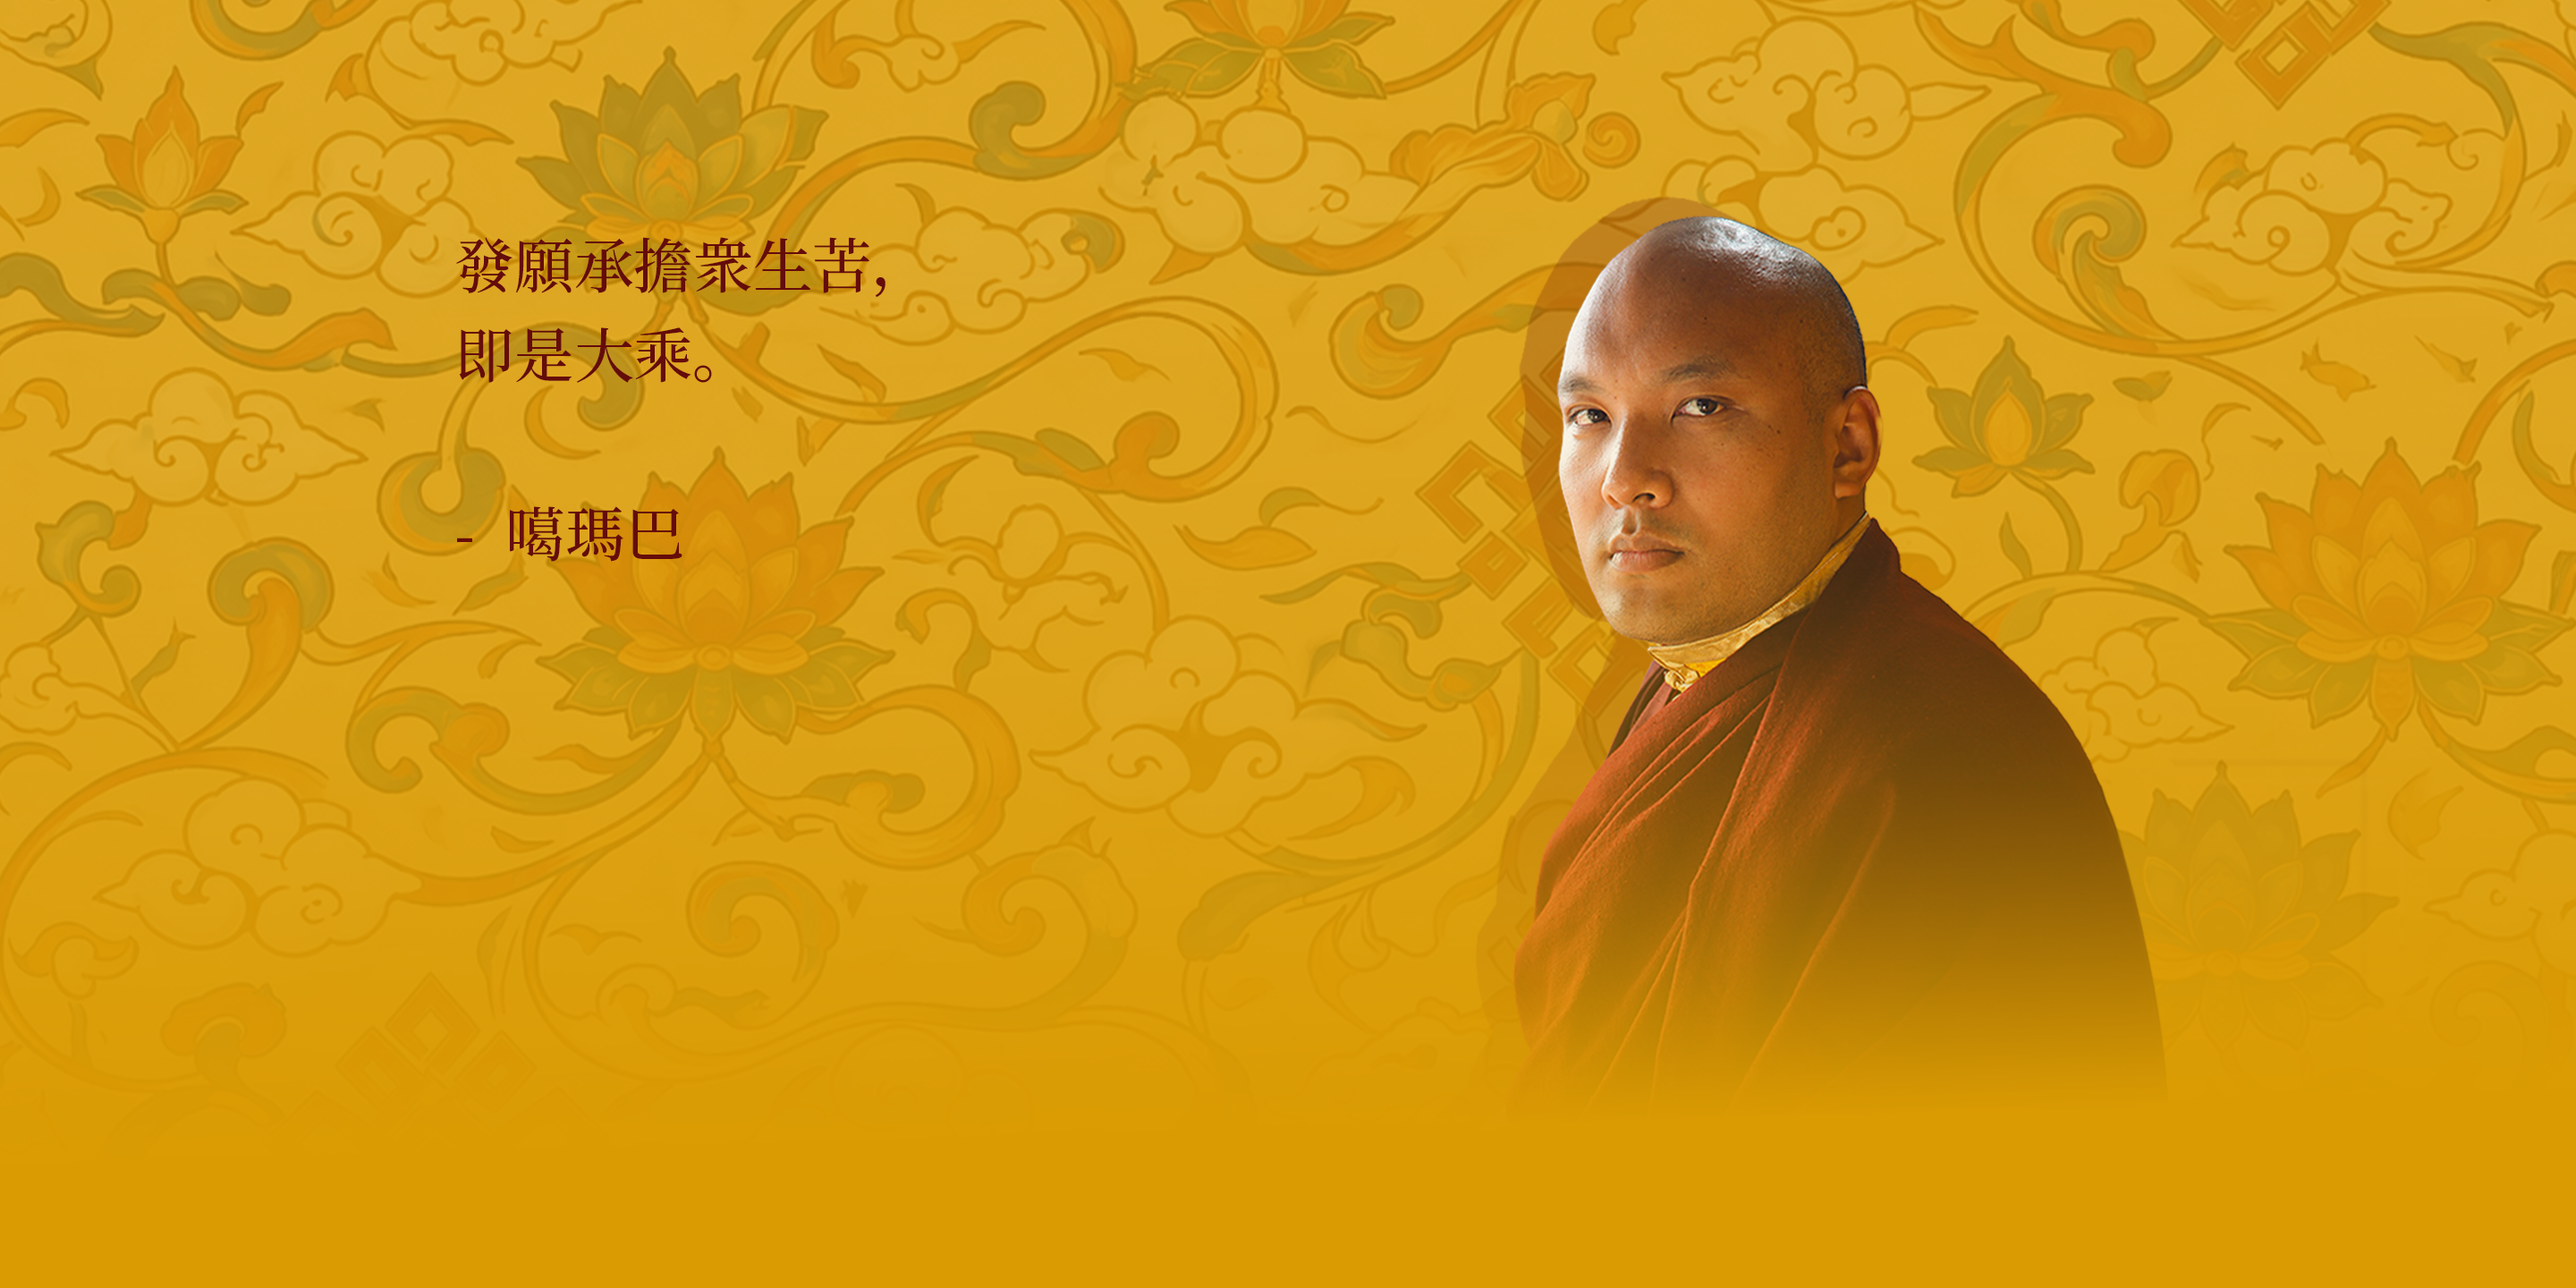
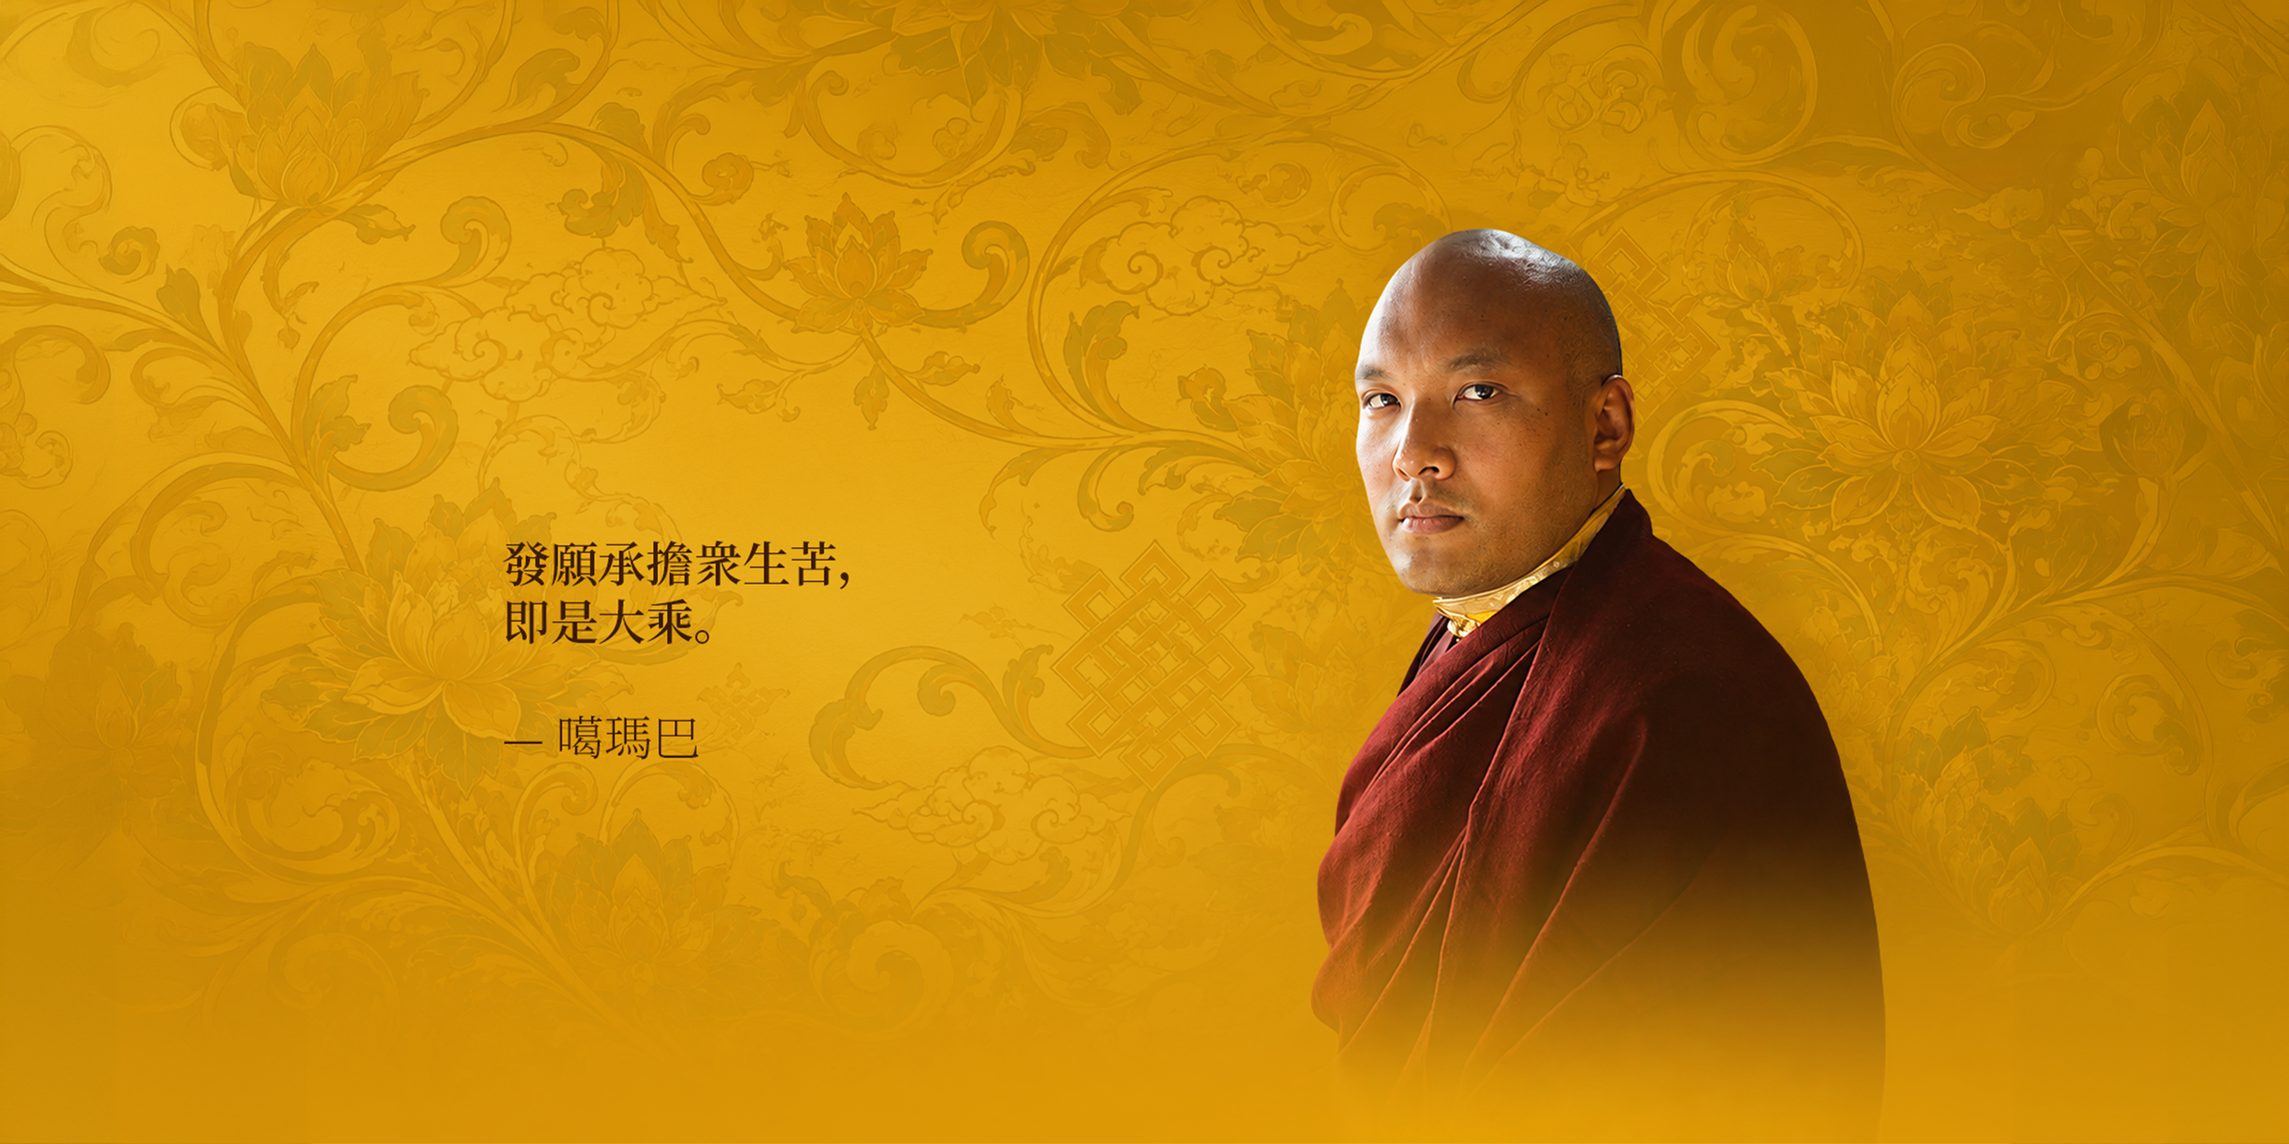
Expand homepage carousel

diff --git a/app/visual-media/video-channel/page.module.css b/app/visual-media/video-channel/page.module.css
@@ -75,14 +75,14 @@
 }
 
 .tab {
-  background: rgba(255, 255, 255, 0.42);
+  background: var(--category-pill-background);
   backdrop-filter: blur(12px);
-  border: 1px solid rgba(149, 69, 69, 0.22);
+  border: 1px solid var(--category-pill-border);
   border-radius: 999px;
   box-shadow:
     0 2px 12px rgba(0, 0, 0, 0.04),
     0 1px 2px rgba(0, 0, 0, 0.015);
-  color: rgba(112, 72, 72, 0.92);
+  color: var(--category-pill-color);
   cursor: pointer;
   font: inherit;
   font-weight: 200;
@@ -95,17 +95,17 @@
 }
 
 .tab:hover {
-  background: rgba(255, 255, 255, 0.25);
-  border-color: rgba(149, 69, 69, 0.7);
-  color: rgba(112, 72, 72, 1);
+  background: var(--category-pill-background-hover);
+  border-color: var(--category-pill-border-hover);
+  color: var(--category-pill-color-hover);
   filter: brightness(1.1);
 }
 
 .tabActive,
 .tabActive:hover {
-  background: #954545;
-  border-color: #954545;
-  box-shadow: 0 2px 10px rgba(149, 69, 69, 0.3);
+  background: var(--category-pill-active-background);
+  border-color: var(--category-pill-active-background);
+  box-shadow: var(--category-pill-active-shadow);
   color: #ffffff;
   filter: none;
 }
@@ -330,9 +330,9 @@
 
 .loadMoreButton {
   align-items: center;
-  background: rgba(255, 255, 255, 0.1);
+  background: var(--category-pill-background);
   backdrop-filter: blur(12px);
-  border: 1px solid rgba(149, 69, 69, 0.4);
+  border: 1px solid var(--category-pill-border);
   border-radius: 999px;
   box-shadow:
     0 2px 12px rgba(0, 0, 0, 0.04),
@@ -363,9 +363,9 @@
 
 .loadMoreButton:hover,
 .loadMoreButton:focus-visible {
-  background: rgba(255, 255, 255, 0.25);
-  border-color: rgba(149, 69, 69, 0.7);
-  color: rgba(149, 69, 69, 0.7);
+  background: var(--category-pill-background-hover);
+  border-color: var(--category-pill-border-hover);
+  color: var(--category-pill-color-hover);
   filter: brightness(1.1);
   transform: translateY(-1px);
 }

diff --git a/app/activities/latest/page.module.css b/app/activities/latest/page.module.css
@@ -49,9 +49,9 @@
 .filterButton[aria-pressed="true"],
 .filterButton[aria-pressed="true"]:hover,
 .filterButton[aria-pressed="true"]:focus-visible {
-  background: #954545;
-  border-color: #954545;
-  box-shadow: 0 2px 10px rgba(149, 69, 69, 0.3);
+  background: var(--category-pill-active-background);
+  border-color: var(--category-pill-active-background);
+  box-shadow: var(--category-pill-active-shadow);
   color: #ffffff;
   filter: none;
 }
@@ -86,14 +86,14 @@
 
 .archiveNavLink {
   align-items: center;
-  background: rgba(255, 255, 255, 0.42);
+  background: var(--category-pill-background);
   backdrop-filter: blur(12px);
-  border: 1px solid rgba(149, 69, 69, 0.22);
+  border: 1px solid var(--category-pill-border);
   border-radius: 999px;
   box-shadow:
     0 2px 12px rgba(0, 0, 0, 0.04),
     0 1px 2px rgba(0, 0, 0, 0.015);
-  color: rgba(112, 72, 72, 0.92);
+  color: var(--category-pill-color);
   display: inline-grid;
   font-size: 0.95rem;
   font-weight: 200;
@@ -111,9 +111,9 @@
 
 .archiveNavLink:hover,
 .archiveNavLink:focus-visible {
-  background: rgba(255, 255, 255, 0.25);
-  border-color: rgba(149, 69, 69, 0.7);
-  color: rgba(112, 72, 72, 1);
+  background: var(--category-pill-background-hover);
+  border-color: var(--category-pill-border-hover);
+  color: var(--category-pill-color-hover);
   filter: brightness(1.1);
   outline: none;
 }

diff --git a/app/support-volunteer/charity-shop/page.module.css b/app/support-volunteer/charity-shop/page.module.css
@@ -350,14 +350,14 @@
 }
 
 .switchLink {
-  background: rgba(255, 255, 255, 0.42);
+  background: var(--category-pill-background);
   backdrop-filter: blur(12px);
-  border: 1px solid rgba(149, 69, 69, 0.22);
+  border: 1px solid var(--category-pill-border);
   border-radius: 999px;
   box-shadow:
     0 2px 12px rgba(0, 0, 0, 0.04),
     0 1px 2px rgba(0, 0, 0, 0.015);
-  color: rgba(112, 72, 72, 0.92);
+  color: var(--category-pill-color);
   font-size: inherit;
   font-weight: 200;
   letter-spacing: 0.15rem;
@@ -372,9 +372,9 @@
 
 .switchLink:hover,
 .switchLink:focus-visible {
-  background: rgba(255, 255, 255, 0.25);
-  border-color: rgba(149, 69, 69, 0.7);
-  color: rgba(112, 72, 72, 1);
+  background: var(--category-pill-background-hover);
+  border-color: var(--category-pill-border-hover);
+  color: var(--category-pill-color-hover);
   filter: brightness(1.1);
   outline: 0;
 }
@@ -382,9 +382,9 @@
 .switchLink[aria-current="page"],
 .switchLink[aria-current="page"]:hover,
 .switchLink[aria-current="page"]:focus-visible {
-  background: #954545;
-  border-color: #954545;
-  box-shadow: 0 2px 10px rgba(149, 69, 69, 0.3);
+  background: var(--category-pill-active-background);
+  border-color: var(--category-pill-active-background);
+  box-shadow: var(--category-pill-active-shadow);
   color: #ffffff;
   filter: none;
 }

diff --git a/components/ProductTabs.module.css b/components/ProductTabs.module.css
@@ -13,14 +13,14 @@
 }
 
 .tab {
-  background: rgba(255, 255, 255, 0.1);
+  background: var(--category-pill-background);
   backdrop-filter: blur(12px);
-  border: 1px solid rgba(149, 69, 69, 0.4);
+  border: 1px solid var(--category-pill-border);
   border-radius: 999px;
   box-shadow:
     0 2px 12px rgba(0, 0, 0, 0.04),
     0 1px 2px rgba(0, 0, 0, 0.015);
-  color: rgba(149, 69, 69, 0.4);
+  color: var(--category-pill-color);
   cursor: pointer;
   font: inherit;
   font-weight: 300;
@@ -33,17 +33,17 @@
 }
 
 .tab:hover {
-  background: rgba(255, 255, 255, 0.25);
-  border-color: rgba(149, 69, 69, 0.7);
-  color: rgba(149, 69, 69, 0.7);
+  background: var(--category-pill-background-hover);
+  border-color: var(--category-pill-border-hover);
+  color: var(--category-pill-color-hover);
   filter: brightness(1.1);
 }
 
 .active,
 .active:hover {
-  background: #954545;
-  border-color: #954545;
-  box-shadow: 0 2px 10px rgba(149, 69, 69, 0.3);
+  background: var(--category-pill-active-background);
+  border-color: var(--category-pill-active-background);
+  box-shadow: var(--category-pill-active-shadow);
   color: #ffffff;
   filter: none;
   font-weight: 300;

diff --git a/components/ActivityTabbedGallery.module.css b/components/ActivityTabbedGallery.module.css
@@ -16,14 +16,14 @@
 }
 
 .tab {
-  background: rgba(255, 255, 255, 0.42);
+  background: var(--category-pill-background);
   backdrop-filter: blur(12px);
-  border: 1px solid rgba(149, 69, 69, 0.22);
+  border: 1px solid var(--category-pill-border);
   border-radius: 999px;
   box-shadow:
     0 2px 12px rgba(0, 0, 0, 0.04),
     0 1px 2px rgba(0, 0, 0, 0.015);
-  color: rgba(112, 72, 72, 0.92);
+  color: var(--category-pill-color);
   cursor: pointer;
   font: inherit;
   font-weight: 200;
@@ -36,17 +36,17 @@
 }
 
 .tab:hover {
-  background: rgba(255, 255, 255, 0.25);
-  border-color: rgba(149, 69, 69, 0.7);
-  color: rgba(112, 72, 72, 1);
+  background: var(--category-pill-background-hover);
+  border-color: var(--category-pill-border-hover);
+  color: var(--category-pill-color-hover);
   filter: brightness(1.1);
 }
 
 .tabActive,
 .tabActive:hover {
-  background: #954545;
-  border-color: #954545;
-  box-shadow: 0 2px 10px rgba(149, 69, 69, 0.3);
+  background: var(--category-pill-active-background);
+  border-color: var(--category-pill-active-background);
+  box-shadow: var(--category-pill-active-shadow);
   color: #ffffff;
   filter: none;
 }

diff --git a/app/about/teachers/TeacherTabs.module.css b/app/about/teachers/TeacherTabs.module.css
@@ -16,14 +16,14 @@
 }
 
 .tab {
-  background: rgba(255, 255, 255, 0.1);
+  background: var(--category-pill-background);
   backdrop-filter: blur(12px);
-  border: 1px solid rgba(149, 69, 69, 0.4);
+  border: 1px solid var(--category-pill-border);
   border-radius: 999px;
   box-shadow:
     0 2px 12px rgba(0, 0, 0, 0.04),
     0 1px 2px rgba(0, 0, 0, 0.015);
-  color: rgba(149, 69, 69, 0.4);
+  color: var(--category-pill-color);
   cursor: pointer;
   font: inherit;
   font-weight: 200;
@@ -36,17 +36,17 @@
 }
 
 .tab:hover {
-  background: rgba(255, 255, 255, 0.25);
-  border-color: rgba(149, 69, 69, 0.7);
-  color: rgba(149, 69, 69, 0.7);
+  background: var(--category-pill-background-hover);
+  border-color: var(--category-pill-border-hover);
+  color: var(--category-pill-color-hover);
   filter: brightness(1.1);
 }
 
 .tabActive,
 .tabActive:hover {
-  background: #954545;
-  border-color: #954545;
-  box-shadow: 0 2px 10px rgba(149, 69, 69, 0.3);
+  background: var(--category-pill-active-background);
+  border-color: var(--category-pill-active-background);
+  box-shadow: var(--category-pill-active-shadow);
   color: #ffffff;
   filter: none;
 }

diff --git a/data/homepage.ts b/data/homepage.ts
@@ -259,18 +259,26 @@ export const hero = {
   ] satisfies HeroCta[],
   slides: [
     {
-      image: "/hero/pc1.png?v=20260821-1",
+      image: "/hero/pc1.png?v=20260821-2",
       mobileImage: "/hero/mb1.png?v=20260821-1",
       alt: "Homepage hero featuring a Karmapa teaching and the institute wordmark.",
     },
     {
-      image: "/hero/pc2.png?v=20260821-1",
+      image: "/hero/pc2.png?v=20260821-2",
       mobileImage: "/hero/mb2.png?v=20260821-1",
       alt: "Homepage hero featuring a Karmapa teaching and the institute wordmark.",
     },
     {
-      image: "/hero/pc3.png?v=20260821-1",
+      image: "/hero/pc3.png?v=20260821-2",
       mobileImage: "/hero/mb3.png?v=20260821-1",
+      alt: "Homepage hero featuring a Karmapa teaching and the institute wordmark.",
+    },
+    {
+      image: "/hero/pc4.PNG?v=20260821-2",
+      alt: "Homepage hero featuring a Karmapa teaching and the institute wordmark.",
+    },
+    {
+      image: "/hero/pc5.PNG?v=20260821-2",
       alt: "Homepage hero featuring a Karmapa teaching and the institute wordmark.",
     },
   ] satisfies HeroSlide[],

diff --git a/components/Hero.tsx b/components/Hero.tsx
@@ -10,6 +10,8 @@ const FALLBACK_OVERLAY_COLOR = "rgba(42, 42, 42, 0.82)";
 const OVERLAY_ALPHA = 0.82;
 const DARKEN_MULTIPLIER = 0.58;
 const SAMPLE_SIZE = 48;
+const DESKTOP_SLIDE_INTERVAL_MS = 5000;
+const MOBILE_SLIDE_INTERVAL_MS = 4500;
 
 type RgbColor = {
   red: number;
@@ -148,10 +150,10 @@ export function Hero({ eyebrow, title, description, ctas, slides }: HeroProps) {
 
     const intervalId = window.setInterval(() => {
       setActiveSlide((currentSlide) => (currentSlide + 1) % slides.length);
-    }, 6000);
+    }, useMobileSlides ? MOBILE_SLIDE_INTERVAL_MS : DESKTOP_SLIDE_INTERVAL_MS);
 
     return () => window.clearInterval(intervalId);
-  }, [slides.length]);
+  }, [slides.length, useMobileSlides]);
 
   useEffect(() => {
     let isCancelled = false;

diff --git a/app/globals.css b/app/globals.css
@@ -65,6 +65,14 @@
   --page-footer-gap: clamp(6rem, 10vw, 9rem);
   --wide-content-width: 92vw;
   --wide-content-max: 112rem;
+  --category-pill-background: rgba(255, 255, 255, 0.42);
+  --category-pill-background-hover: rgba(255, 255, 255, 0.25);
+  --category-pill-border: rgba(149, 69, 69, 0.22);
+  --category-pill-border-hover: rgba(149, 69, 69, 0.7);
+  --category-pill-color: rgba(112, 72, 72, 0.92);
+  --category-pill-color-hover: rgba(112, 72, 72, 1);
+  --category-pill-active-background: #954545;
+  --category-pill-active-shadow: 0 2px 10px rgba(149, 69, 69, 0.3);
   --font-serif-tc: var(--font-source-han-serif);
   --font-serif-cn: var(--font-source-han-serif);
   --caption-color: rgba(74, 14, 23, 0.78);
